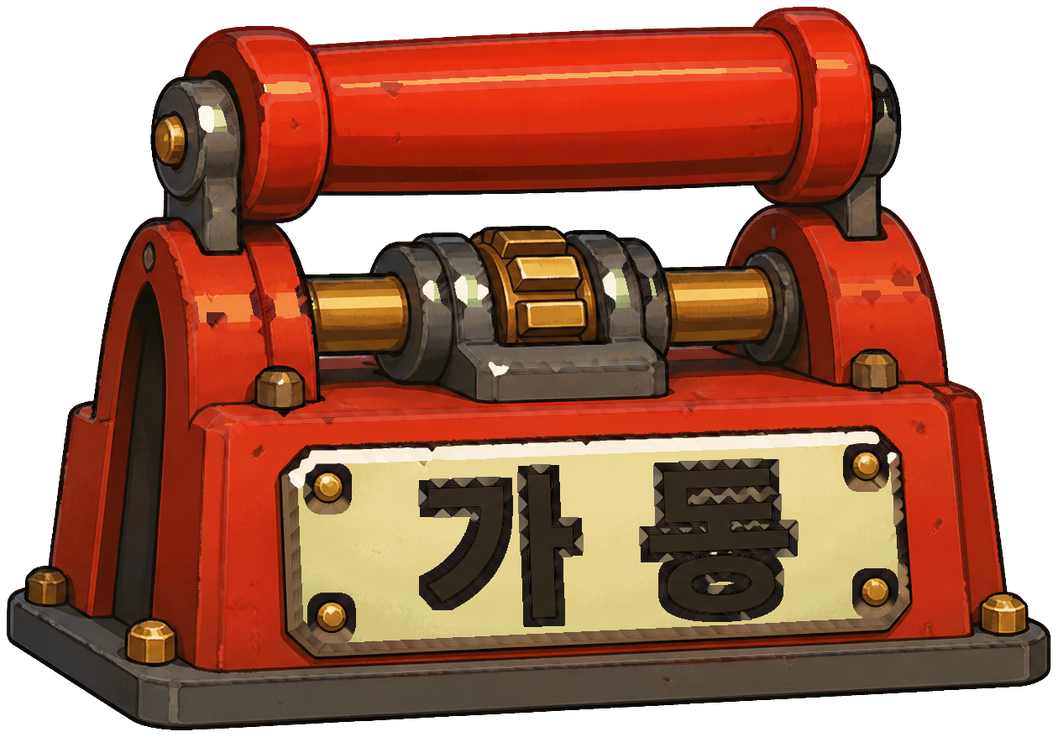
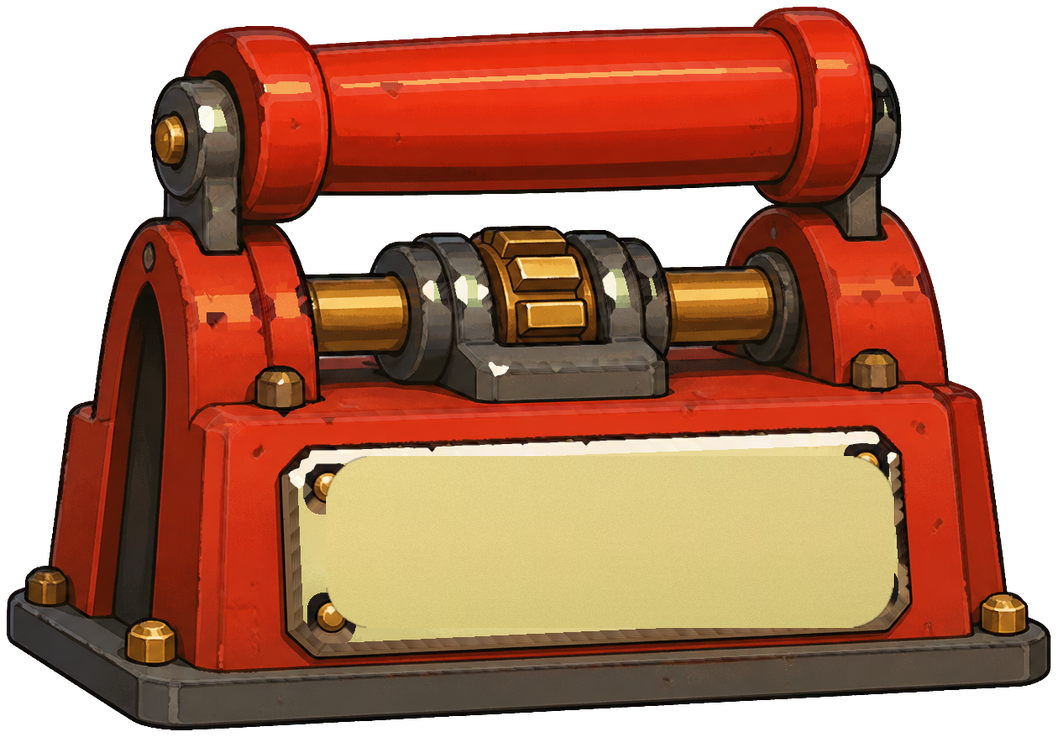
말아봇: CTA 명판 한글 교정

diff --git a/public/g/roll-bot/index.html b/public/g/roll-bot/index.html
@@ -128,13 +128,21 @@ html,body{margin:0;padding:0;width:100%;height:100%;overflow:hidden;background:#
    세로 키아트는 상단 도면 여백에, 가로는 뷰포트 왼쪽 작업대 바닥에 둔다. */
 .title-primary{position:absolute;left:16px;top:158px;width:min(176px,50vw);height:auto;
   min-width:44px;min-height:64px;padding:0;margin:0;border:0;background:transparent;
-  appearance:none;cursor:pointer;display:block;
+  appearance:none;cursor:pointer;display:block;container-type:inline-size;
   touch-action:manipulation;-webkit-tap-highlight-color:transparent;}
-.title-primary .lever-knob{width:100%;height:auto;display:block;pointer-events:none;
-  user-select:none;-webkit-user-drag:none;
+.title-primary .lever-stack{position:relative;display:block;width:100%;
   filter:drop-shadow(0 8px 12px rgba(36,22,8,.32));
   animation:lever-preview 650ms cubic-bezier(.2,.85,.25,1) both;}
-.title-primary:hover .lever-knob{filter:drop-shadow(0 8px 12px rgba(36,22,8,.32)) saturate(1.08) brightness(1.05);}
+.title-primary .lever-knob{width:100%;height:auto;display:block;pointer-events:none;
+  user-select:none;-webkit-user-drag:none;}
+.title-primary .lever-plate{position:absolute;left:31.2%;top:62.2%;width:53.2%;height:22.8%;
+  display:flex;align-items:center;justify-content:center;pointer-events:none;
+  font-family:"Apple SD Gothic Neo","Malgun Gothic","Noto Sans KR",var(--font);
+  font-weight:900;font-size:20px;font-size:12.4cqw;line-height:1;
+  letter-spacing:.28em;padding-right:.28em;color:#1c1610;
+  text-shadow:0 1px 0 rgba(255,236,190,.88),0 -1px 0 rgba(12,8,4,.5),0 0 .4px #000;
+  -webkit-font-smoothing:antialiased;}
+.title-primary:hover .lever-stack{filter:drop-shadow(0 8px 12px rgba(36,22,8,.32)) saturate(1.08) brightness(1.05);}
 .title-primary:active,.title-primary.is-pressed{transform:translateY(8px) scale(.97);}
 @keyframes lever-preview{
   0%{transform:translateY(0);}
@@ -278,7 +286,10 @@ html,body{margin:0;padding:0;width:100%;height:100%;overflow:hidden;background:#
     <div class="title-meta" id="tBest" hidden></div>
     <div class="title-dex" id="tDex" hidden></div>
     <button class="title-primary" id="btnStart" type="button" aria-label="가동">
-      <img class="lever-knob" src="./assets/cta.png" alt="">
+      <span class="lever-stack">
+        <img class="lever-knob" src="./assets/cta.png" alt="">
+        <span class="lever-plate" aria-hidden="true">가동</span>
+      </span>
     </button>
     <button class="title-howto" id="btnHowto" type="button">어떻게 놀아요? 〉</button>
     <button class="title-mute" id="btnTitleMute" type="button" aria-label="소리 끄기">🔊</button>
@@ -3201,7 +3212,7 @@ function goTitle(){
   $('#onb').classList.add('hide');
   $('#result').classList.add('hide'); $('#hud').classList.add('hide');
   $('#banner').classList.add('hide'); $('#title').classList.remove('hide');
-  const knob=document.querySelector('#title .lever-knob');
+  const knob=document.querySelector('#title .lever-stack');
   if(knob){ knob.style.animation='none'; void knob.offsetWidth; knob.style.animation=''; }
   syncBestPill(); syncMuteIcons();
 }
